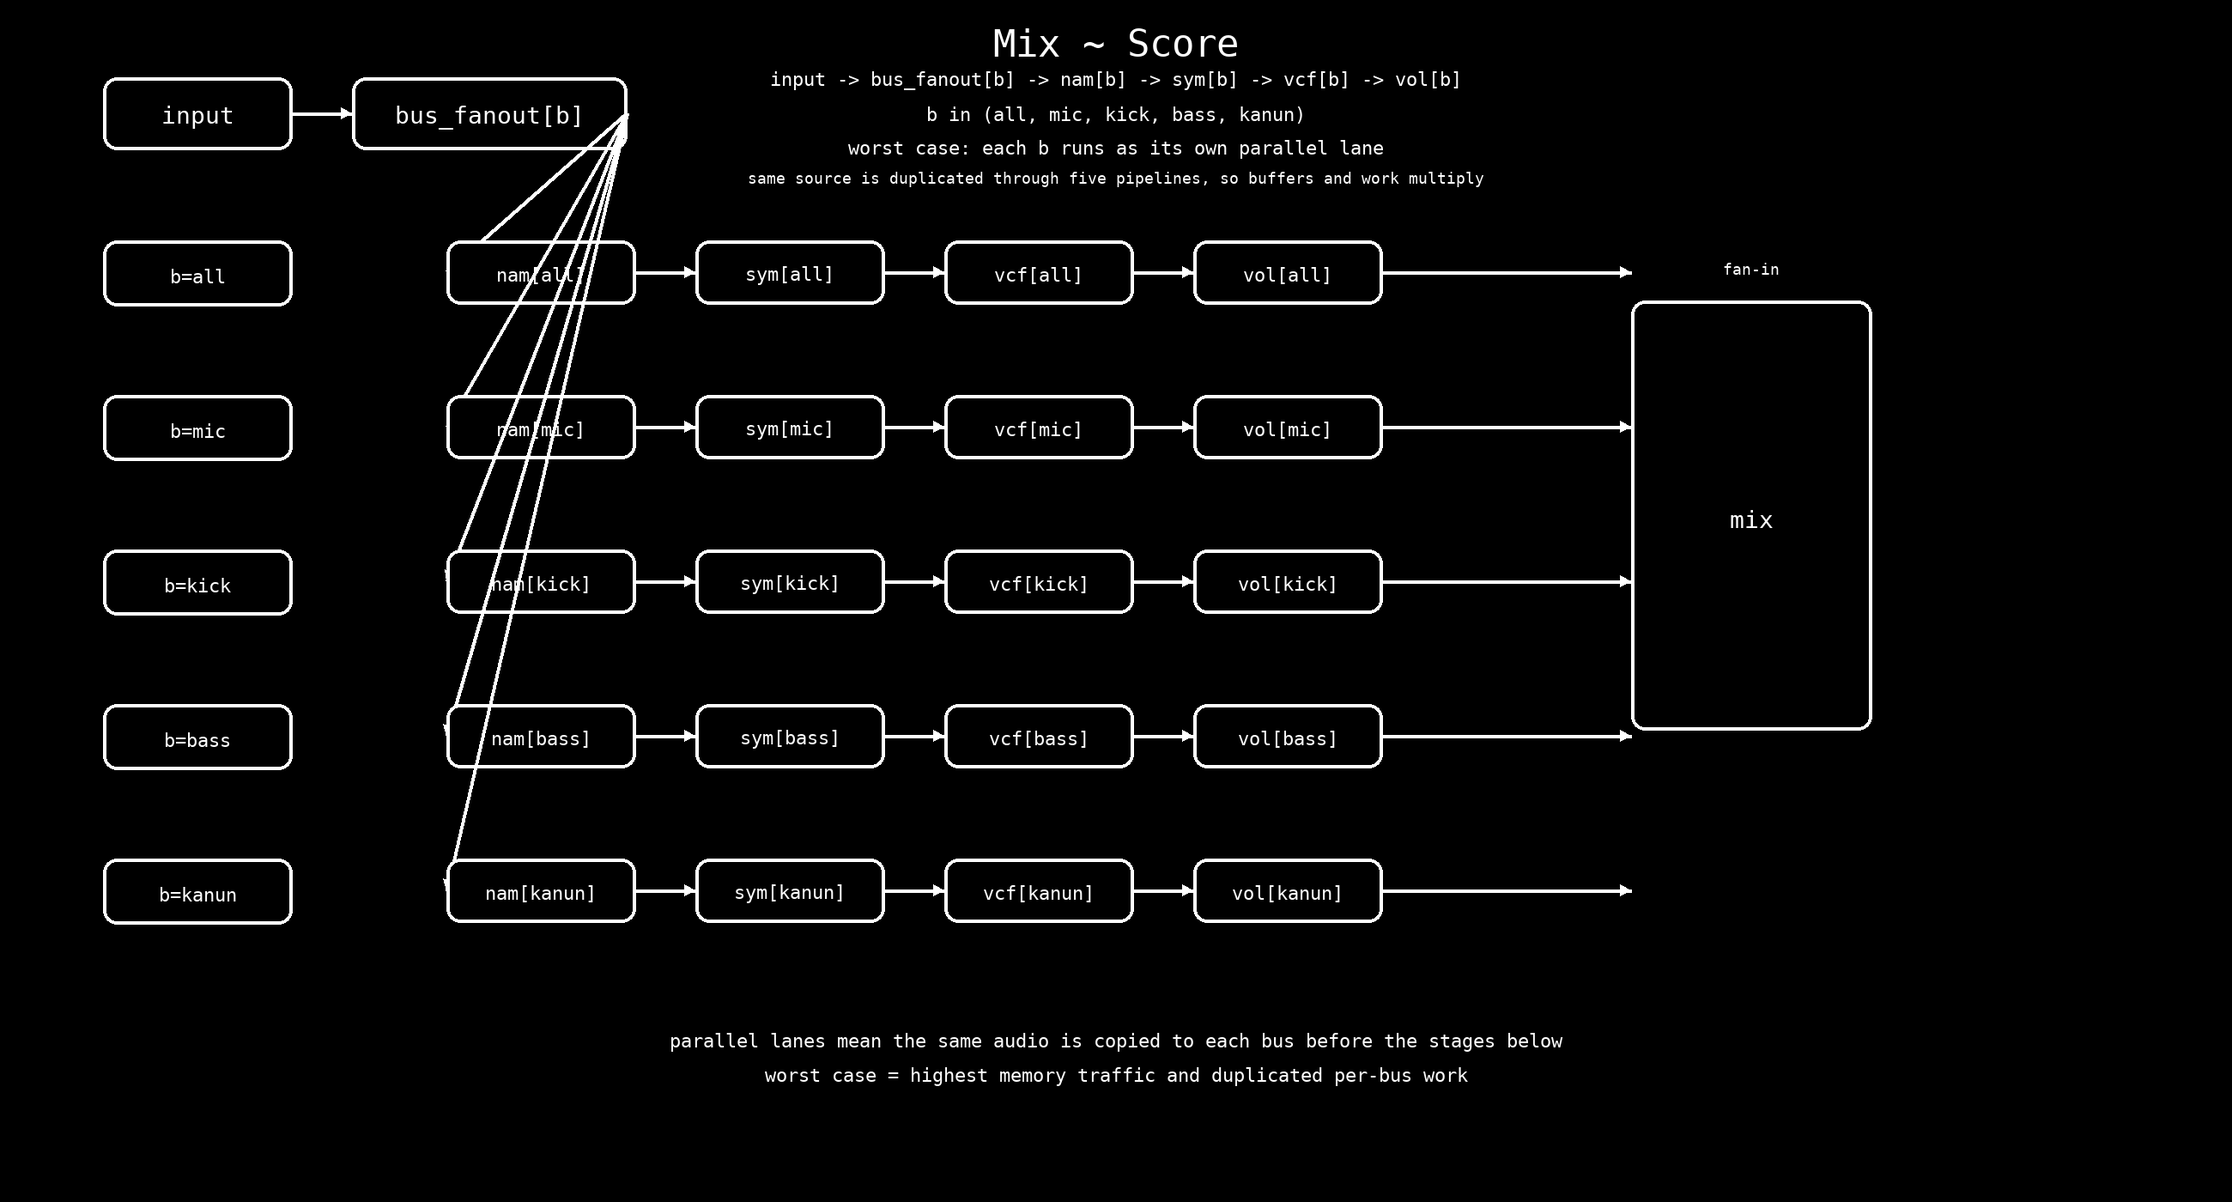
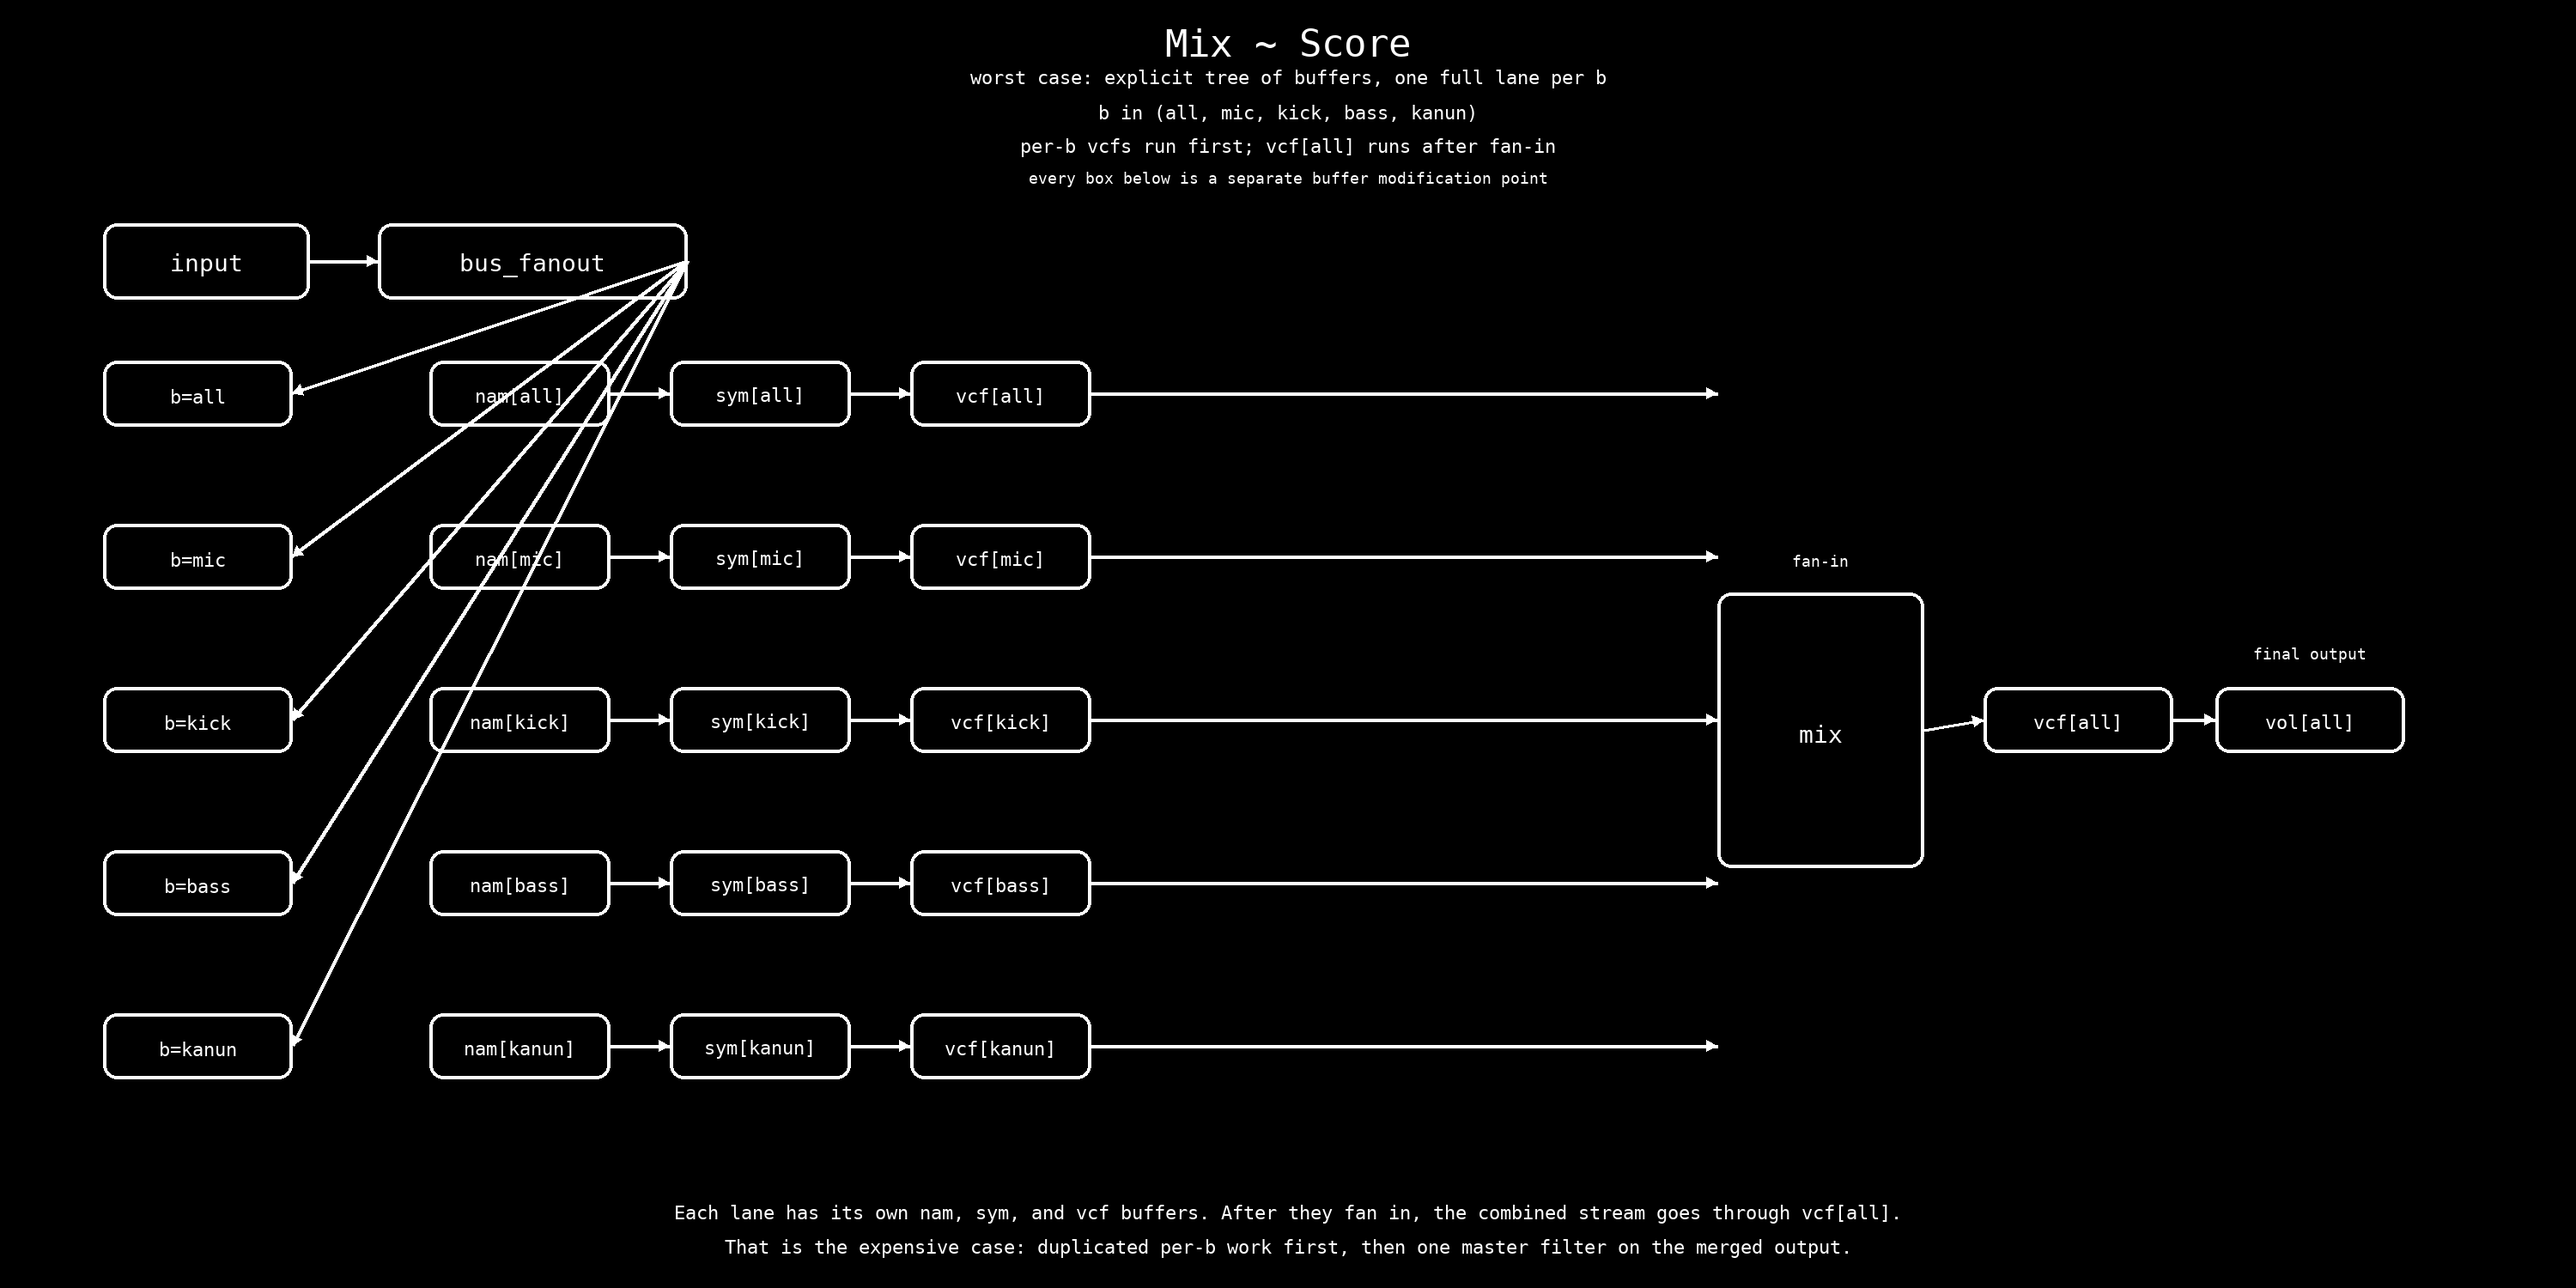
clarify master filter order

diff --git a/docs/buses-effects-order.md b/docs/buses-effects-order.md
@@ -17,15 +17,14 @@ At runtime, the callback processes sound in this order:
 The important split is this:
 
 ```text
-input -> bus_fanout[b] -> nam[b] -> sym[b] -> vcf[b] -> vol[b]
+input -> bus_fanout[b] -> nam[b] -> sym[b] -> vcf[b] -> mix -> vcf[all] -> vol[all]
 ```
 
 Here `b` ranges over `all`, `mic`, `kick`, `bass`, and `kanun`.
+The per-b `vcf` boxes run first. The master `vcf[all]` runs after fan-in.
 
 That is the worst-case work path when the score is driving all active buses at
 once.
-
-![Bus and effects order](./mix-score-pipeline.png)
 
 ## Worst Case
 
